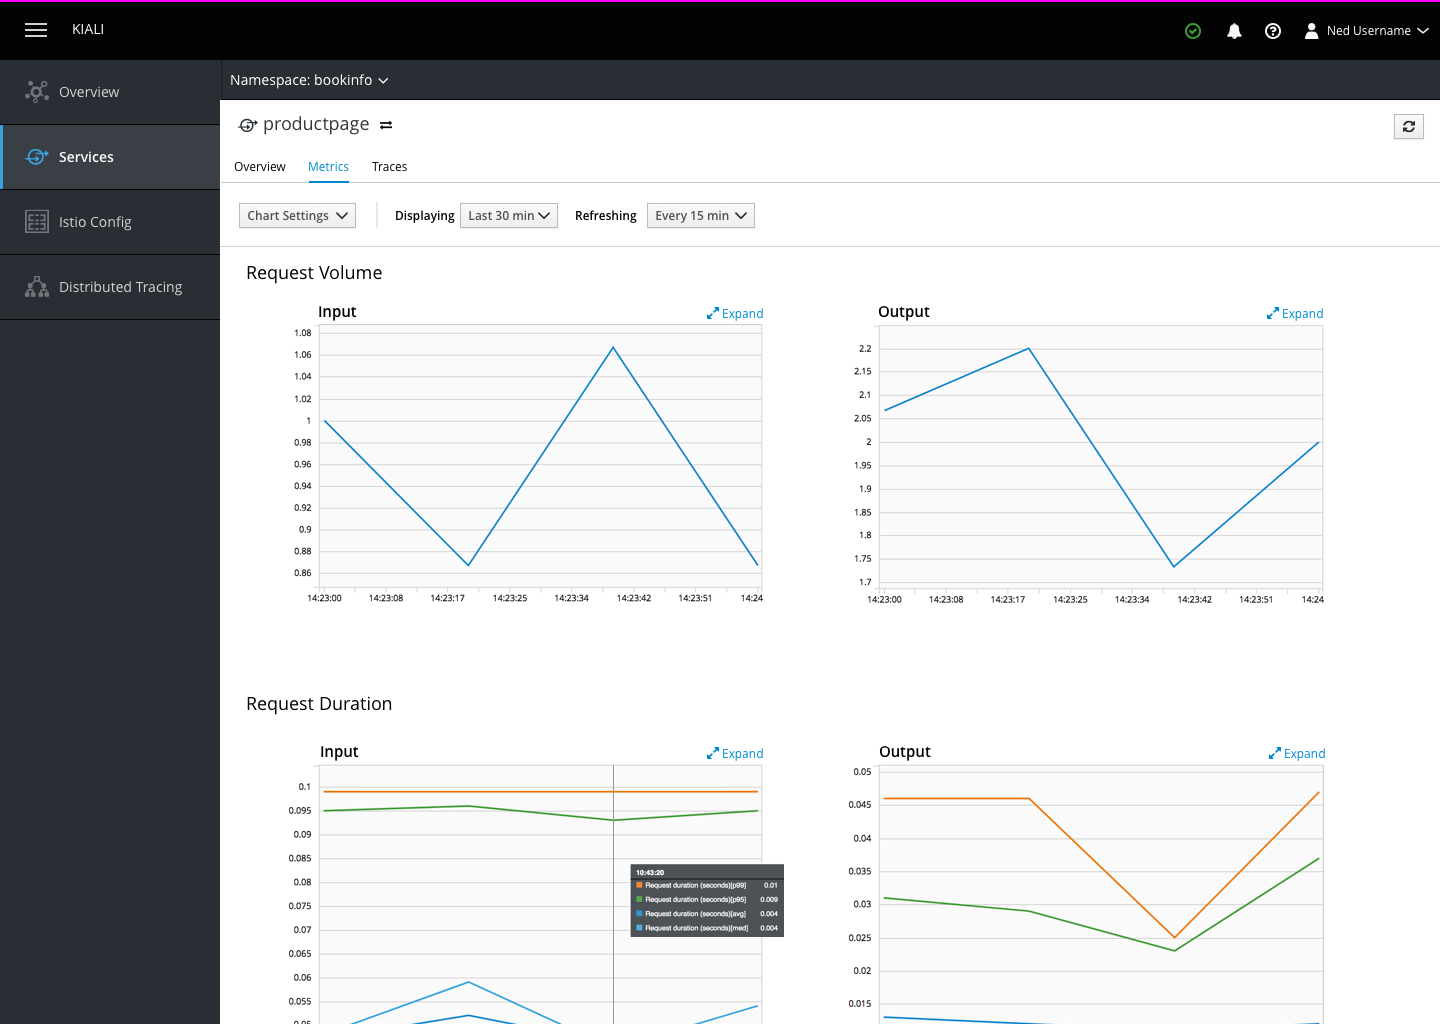
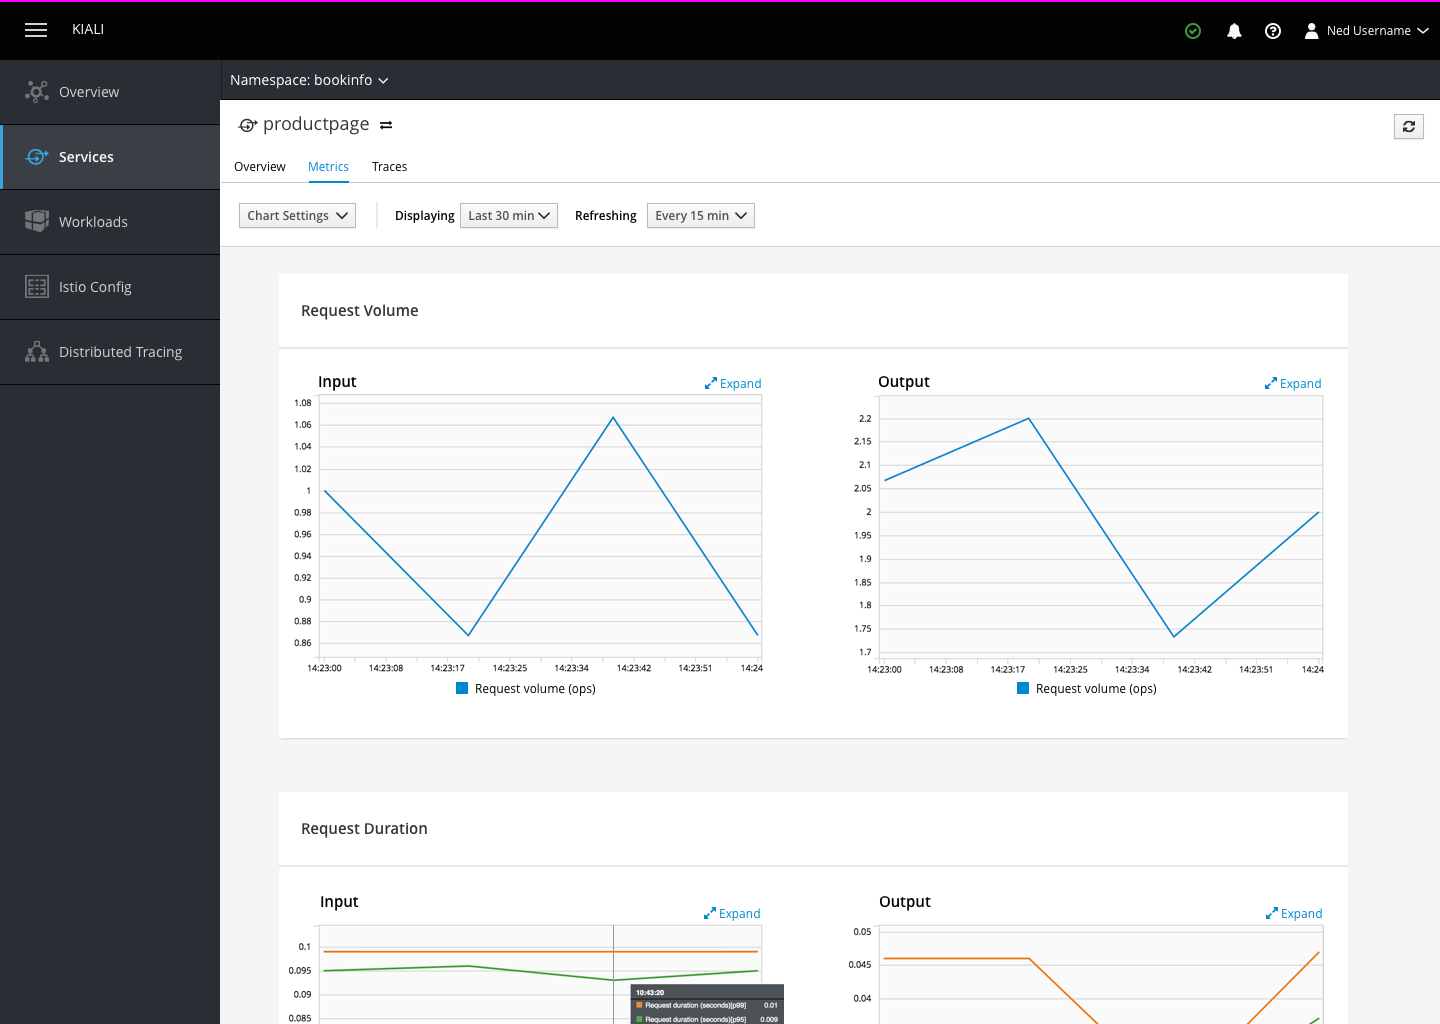
Update to show chart legends on cards

diff --git a/services/design.md b/services/design.md
@@ -3,15 +3,11 @@
 ## Metrics
 
 ![service metrics page](img/service-metrics.png)
-- Service metrics charts are grouped by the metric that they represent and displayed next to one another.
-- Chart legends are not visible in the non-expanded state, but are visible by hovering over the graph.
+- Service metrics charts are grouped by the metric that they represent and displayed on cards next to one another.
+- Chart legends are visible below the charts as well as by hovering over the graph.
+- The height of each pair of charts should be matched so thh
 - Adding the option to show different percentiles into the settings dropdown would effectively enable people to replicate the hiding and showing feature of the legend for every graph at once rather than one at a time.
 - Charts should be displayed at a fixed height, but if this is not possible/practical both charts in each pair should have the same height.
-
-
-![alternative service metrics page](img/service-metrics-alt.png)
-- Alternatively, charts could be grouped into cards by the metric that they represent. In this case, they would exhibit the same behaviors described above.
-
 
 ### Expanded Metrics Chart
 ![expanded metrics chart](img/service-metrics-expanded.png)
